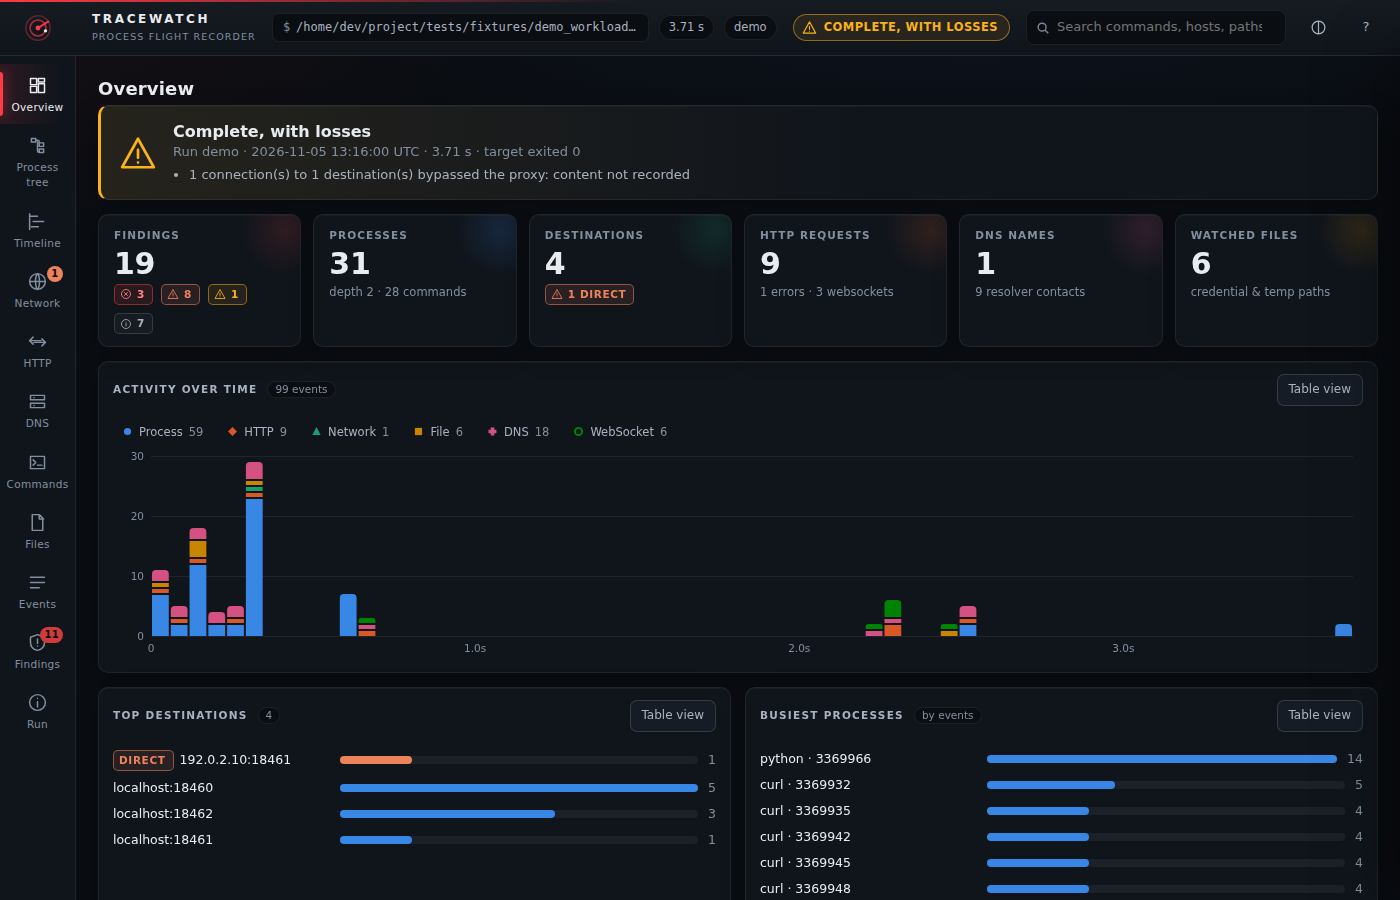
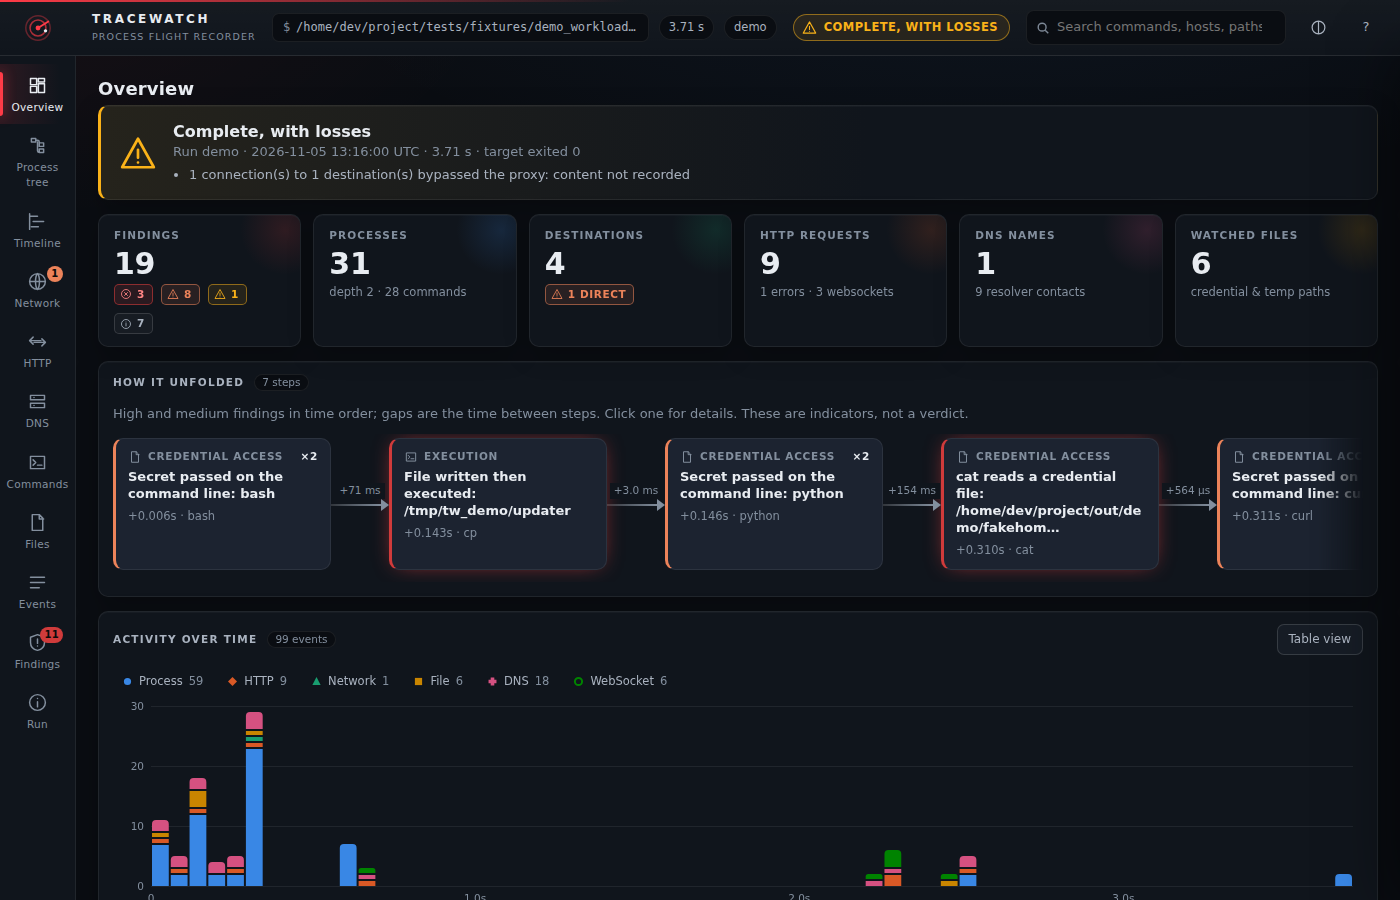
Overview: 'How it unfolded' chain of notable steps; sanitized screenshots of the simulated run

diff --git a/src/tracewatch/report_assets/style.css b/src/tracewatch/report_assets/style.css
@@ -240,6 +240,33 @@ details > summary { list-style: none; } details > summary::-webkit-details-marke
 @media (max-width: 820px) { .toolbar { flex-wrap: nowrap; overflow-x: auto; } .toolbar .btn { flex: none; white-space: nowrap; } .toolbar .muted { white-space: nowrap; } }
 .btn:disabled { opacity: .45; cursor: not-allowed; } .btn:disabled:hover { color: var(--text-2); border-color: var(--line-2); }
 
+/* the sequence of notable events */
+.story { margin-top: 14px; }
+.story-track { list-style: none; margin: 0; padding: 4px 2px 12px; display: flex; align-items: stretch; overflow-x: auto; scroll-snap-type: x proximity; }
+.story-item { flex: none; scroll-snap-align: start; display: flex; }
+.story-node { display: flex; flex-direction: column; gap: 5px; text-align: left; width: 218px; padding: 10px 12px; border-radius: var(--radius);
+  background: var(--raised-2); border: 1px solid var(--line); border-left: 3px solid var(--sev-info); transition: transform .15s ease, border-color .15s ease; }
+.story-node:hover { transform: translateY(-2px); border-color: var(--line-2); }
+.story-node:focus-visible { outline: 2px solid var(--accent); outline-offset: 2px; }
+.story-node.st-high { border-left-color: var(--sev-high); box-shadow: 0 0 22px -8px var(--sev-high); } .story-node.st-medium { border-left-color: var(--sev-medium); }
+.story-track.more-right { -webkit-mask-image: linear-gradient(90deg, #000 calc(100% - 44px), transparent); mask-image: linear-gradient(90deg, #000 calc(100% - 44px), transparent); }
+.story-stage { display: flex; align-items: center; gap: 6px; font-size: 10.5px; font-weight: 700; letter-spacing: .07em; text-transform: uppercase; color: var(--text-3); }
+.story-stage svg { flex: none; } .story-n { margin-left: auto; color: var(--text); font-variant-numeric: tabular-nums; }
+.story-title { font-weight: 600; line-height: 1.3; overflow-wrap: anywhere; } .story-meta { font-size: 11.5px; color: var(--text-3); }
+.story-link { flex: none; width: 58px; display: flex; flex-direction: column; align-items: center; justify-content: center; position: relative; }
+.story-link::before { content: ""; position: absolute; left: 0; right: 7px; top: 50%; height: 2px; background: linear-gradient(90deg, var(--line-2), var(--text-3)); }
+.story-link::after { content: ""; position: absolute; right: 0; top: calc(50% - 5px); border: 6px solid transparent; border-left: 8px solid var(--text-3); border-right: 0; }
+.story-gap { position: relative; top: -13px; font-size: 10.5px; color: var(--text-3); background: var(--surface); padding: 0 4px; font-variant-numeric: tabular-nums; z-index: 1; }
+@media (max-width: 820px) {
+  .story-track.more-right { -webkit-mask-image: none; mask-image: none; }
+  .story-track { flex-direction: column; overflow-x: visible; align-items: stretch; } .story-item, .story-node { width: 100%; }
+  .story-link { width: auto; height: 34px; flex-direction: row; justify-content: flex-start; padding-left: 24px; }
+  .story-link::before { left: 14px; right: auto; top: 0; bottom: 0; width: 2px; height: auto; background: linear-gradient(180deg, var(--line-2), var(--text-3)); }
+  .story-link::after { right: auto; left: 8px; top: auto; bottom: -1px; border: 6px solid transparent; border-top: 8px solid var(--text-3); border-bottom: 0; }
+  .story-gap { top: 0; left: 8px; background: none; }
+}
+@media print { .story-track.more-right { -webkit-mask-image: none; mask-image: none; } .story-track { flex-wrap: wrap; overflow: visible; row-gap: 10px; } .story-node { break-inside: avoid; } }
+
 /* finding dictionary */
 .rstat { display: inline-block; font-size: 10.5px; font-weight: 700; letter-spacing: .05em; padding: 1px 7px; border-radius: 99px; border: 1px solid var(--line-2); }
 .rstat.observed { color: var(--t-good); } .rstat.synthetic { color: var(--t-warning); }

diff --git a/src/tracewatch/report_assets/js/55-story.js b/src/tracewatch/report_assets/js/55-story.js
@@ -1,0 +1,37 @@
+/* ===== the sequence of notable events: how the run unfolded, in order, as a connected chain ===== */
+const STAGE = {   // finding category -> plain-language stage + the icon that stands for it
+  execution: ['Execution', 'commands'], credential: ['Credential access', 'files'], exposure: ['Data exposure', 'http'], network: ['Network', 'network'],
+  evasion: ['Evasion', 'search'], privilege: ['Privilege', 'findings'], integrity: ['Recording', 'run'], reliability: ['Reliability', 'info'],
+};
+const STORY_SKIP = new Set(['recording-integrity', 'secrets-redacted', 'nonzero-exit', 'inline-code', 'killed-by-signal', 'detached-process']);
+const STORY_MAX = 10, STORY_GROUP_NS = 1.5e9;
+function storySteps() {
+  const base = DATA.findings.filter(f => (f.severity === 'high' || f.severity === 'medium') && !STORY_SKIP.has(f.rule) && f.events.length).sort((a, b) => a.t - b.t || a.id.localeCompare(b.id));
+  const steps = [];
+  for (const f of base) {   // consecutive findings of the same rule in quick succession read as one step ("×3"), not three
+    const last = steps[steps.length - 1];
+    if (last && last.rule === f.rule && f.t - last.tEnd <= STORY_GROUP_NS) { last.items.push(f); last.tEnd = f.t; if (SEV_RANK[f.severity] > SEV_RANK[last.severity]) last.severity = f.severity; }
+    else steps.push({ rule: f.rule, category: f.category, severity: f.severity, t: f.t, tEnd: f.t, items: [f] });
+  }
+  return steps;
+}
+const SEV_RANK = { info: 0, low: 1, medium: 2, high: 3 };
+function storyChain() {
+  const all = storySteps(); if (all.length < 2) return null;
+  const steps = all.slice(0, STORY_MAX), more = all.length - steps.length;
+  const track = h('ol', { class: 'story-track', 'aria-label': 'Notable events in time order' });
+  steps.forEach((s, i) => {
+    const [stage, ic] = STAGE[s.category] || [s.category, 'info'], f = s.items[0], p = f.procs.length ? P.get(f.procs[0]) : null;
+    if (i) track.appendChild(h('li', { class: 'story-link', 'aria-hidden': 'true' }, h('span', { class: 'story-gap' }, '+' + fmtT(Math.max(0, s.t - steps[i - 1].tEnd)))));
+    track.appendChild(h('li', { class: 'story-item' }, h('button', { type: 'button', class: 'story-node st-' + s.severity, 'data-fk': 'story:' + i,
+      title: f.title + (s.items.length > 1 ? ` (and ${s.items.length - 1} more of the same kind)` : ''), onclick: () => setState({ sel: { type: 'finding', id: f.id } }) },
+      h('span', { class: 'story-stage' }, icon(ic, 14), stage, s.items.length > 1 ? h('span', { class: 'story-n' }, '×' + s.items.length) : null),
+      h('span', { class: 'story-title' }, short(f.title, 64)),
+      h('span', { class: 'story-meta' }, fmtAt(s.t), p ? ' · ' + p.name : ''))));
+  });
+  const fade = () => track.classList.toggle('more-right', track.scrollWidth - track.clientWidth - track.scrollLeft > 4);   // a hint that the row scrolls
+  track.addEventListener('scroll', fade); new ResizeObserver(fade).observe(track); requestAnimationFrame(fade);
+  return h('section', { class: 'card story' }, h('div', { class: 'card-h' }, h('h3', null, 'How it unfolded'), h('span', { class: 'cnt' }, fmtN(all.length) + (all.length === 1 ? ' step' : ' steps')), h('span', { class: 'sp' }),
+    more ? h('button', { class: 'btn', type: 'button', onclick: () => setState({ tab: 'findings' }) }, '+' + more + ' more in Findings') : null),
+    h('div', { class: 'card-b' }, h('p', { class: 'muted', style: { margin: '0 0 10px' } }, 'High and medium findings in time order; gaps are the time between steps. Click one for details. These are indicators, not a verdict.'), track));
+}

diff --git a/src/tracewatch/report_assets/js/50-views.js b/src/tracewatch/report_assets/js/50-views.js
@@ -38,7 +38,8 @@ function overviewView() {
   const top = DATA.findings.filter(f => f.severity !== 'info').slice(0, 4);
   const fcard = h('section', { class: 'card' }, h('div', { class: 'card-h' }, h('h3', null, 'Top findings'), h('span', { class: 'cnt' }, fmtN(DATA.findings.length)), h('span', { class: 'sp' }), h('button', { class: 'btn', type: 'button', onclick: tab('findings') }, 'All findings')),
     h('div', { class: 'card-b' }, top.length ? top.map(f => h('div', { style: { cursor: 'pointer' }, onclick: () => setState({ sel: { type: 'finding', id: f.id } }) }, findingCard(f, true))) : h('div', { class: 'empty' }, 'No medium or high indicators fired.')));
-  const root = viewShell('overview', 'Overview', null, banner, kpis, h('div', { class: 'grid', style: { gridTemplateColumns: '1fr' } }, activity), h('div', { class: 'grid g2', style: { marginTop: '14px' } }, destCard, busyCard), h('div', { class: 'grid g2', style: { marginTop: '14px' } }, fcard, cov));
+  const story = storyChain();
+  const root = viewShell('overview', 'Overview', null, banner, kpis, story, h('div', { class: 'grid', style: { gridTemplateColumns: '1fr', marginTop: story ? '14px' : '0' } }, activity), h('div', { class: 'grid g2', style: { marginTop: '14px' } }, destCard, busyCard), h('div', { class: 'grid g2', style: { marginTop: '14px' } }, fcard, cov));
   root.onShow = () => { activity.redraw(); };
   return root;
 }

diff --git a/tests/browser/run.py b/tests/browser/run.py
@@ -649,6 +649,56 @@ def run_print(b, path):
     s.page.close()
 
 
+def run_story(b, path):
+    """The Overview's "How it unfolded" chain: ordered, clickable, keyboard-reachable, and fits every width."""
+    s = Session(b, path)
+    p = s.page
+    n = p.locator(".story-node").count()
+    check(f"the Overview shows a chain of notable steps ({n})", n >= 3)
+    ts = p.evaluate(
+        "[...document.querySelectorAll('.story-node .story-meta')].map(e => parseFloat(e.textContent.replace('+', '')))"
+    )
+    check("the steps are in time order", ts == sorted(ts))
+    check(
+        "a high-severity step is visibly stronger than a medium one (different border colour)",
+        p.evaluate(
+            "(() => { const a = document.querySelector('.story-node.st-high'), b = document.querySelector('.story-node.st-medium'); return !a || !b || getComputedStyle(a).borderLeftColor !== getComputedStyle(b).borderLeftColor; })()"
+        ),
+    )
+    check(
+        "connectors carry the time gap between steps as text",
+        p.locator(".story-gap").count() == n - 1
+        and "ms" in p.locator(".story-gap").first.inner_text()
+        or "s" in p.locator(".story-gap").first.inner_text(),
+    )
+    first = p.locator(".story-node").first
+    title = first.get_attribute("title")
+    first.focus()
+    p.keyboard.press("Enter")
+    p.wait_for_timeout(500)
+    check(
+        "Enter on a step opens that finding's details",
+        p.locator("#drawer.open").count() == 1 and title.split(" (")[0][:20] in p.locator("#drawer").inner_text(),
+    )
+    p.keyboard.press("Escape")
+    check(
+        "the step stays focusable after the drawer closes",
+        p.evaluate("document.activeElement.classList.contains('story-node')"),
+    )
+    check("no console errors", not s.errors, "; ".join(s.errors[:2]))
+    s.page.close()
+    for w, h, label in ((390, 844, "phone"), (820, 1000, "tablet")):
+        s = Session(b, path, width=w, height=h)
+        p = s.page
+        over = p.evaluate("document.documentElement.scrollWidth - innerWidth")
+        direction = p.evaluate("getComputedStyle(document.querySelector('.story-track')).flexDirection")
+        check(
+            f"[{label}] the chain causes no page overflow and is {'vertical' if w <= 820 else 'horizontal'} ({direction})",
+            over <= 1 and direction == ("column" if w <= 820 else "row"),
+        )
+        s.page.close()
+
+
 def _chain(model, pid):
     by = {p["id"]: p for p in model["processes"]}
     out, cur = [], by.get(pid)
@@ -748,6 +798,7 @@ def main(demo_dir):
             run_keyboard(b, OUT / "demo.html")
             run_responsive(b, OUT / "demo.html")
             run_print(b, OUT / "demo.html")
+            run_story(b, OUT / "demo.html")
         run_edges(b)
         run_hostile(b)
         run_big(b)

diff --git a/tests/browser/screenshots.py b/tests/browser/screenshots.py
@@ -1,5 +1,5 @@
 """README screenshots from a sanitized copy of a recording.
-usage: screenshots.py RUN_DIR OUT_DIR       (e.g. out/demo/runs/demo docs/screenshots)
+usage: screenshots.py RUN_DIR OUT_DIR [demo|sim]   (e.g. out/demo/runs/demo docs/screenshots)
 
 The page is rendered from a model whose paths, user/host names and IP addresses have been replaced, and the script
 refuses to take a single screenshot if any identifying literal of THIS machine is still present in that page."""
@@ -26,7 +26,14 @@ SHOTS = [  # name, colour scheme, key to press, viewport, after-hook
 ]
 
 
-def main(run_dir: str, out_dir: str) -> int:
+SIM_SHOTS = [  # the simulated-intruder run: where the chain, the findings drawer and the rule reference show up
+    ("sim-overview-dark", "dark", "1", (1400, 900), None),
+    ("sim-finding-detail-dark", "dark", "0", (1400, 900), "finding"),
+    ("sim-rule-reference-light", "light", "0", (1400, 900), "reference"),
+]
+
+
+def main(run_dir: str, out_dir: str, profile: str = "demo") -> int:
     ident = identity()
     model = sanitize(build(Path(run_dir)), ident)
     html = render(model)
@@ -40,12 +47,19 @@ def main(run_dir: str, out_dir: str) -> int:
         page_file = Path(td) / "report.html"
         page_file.write_text(html)
         b = pw.chromium.launch()
-        for name, scheme, key, (w, h), hook in SHOTS:
+        for name, scheme, key, (w, h), hook in SIM_SHOTS if profile == "sim" else SHOTS:
             pg = b.new_page(viewport={"width": w, "height": h}, color_scheme=scheme)
             pg.goto(page_file.as_uri())
             pg.wait_for_function("window.__tw_ready === true")
             pg.keyboard.press(key)
             pg.wait_for_timeout(700)
+            if hook == "finding":
+                pg.locator(".view.on .finding", has_text="reverse shell").first.click()
+                pg.wait_for_timeout(600)
+            if hook == "reference":
+                pg.locator("details.refrules summary").click()
+                pg.locator("details.refrules").scroll_into_view_if_needed()
+                pg.wait_for_timeout(400)
             if hook == "row":
                 pg.locator(".view.on .tbl-row").nth(1).click()
                 pg.wait_for_timeout(600)
@@ -62,4 +76,4 @@ def main(run_dir: str, out_dir: str) -> int:
 
 
 if __name__ == "__main__":
-    sys.exit(main(*sys.argv[1:3]))
+    sys.exit(main(*sys.argv[1:4]))

diff --git a/README.md b/README.md
@@ -19,6 +19,7 @@ addresses were replaced before rendering (`tests/browser/screenshots.py`).
 |---|---|
 | ![Process tree](docs/screenshots/process-tree.png) | ![Request details](docs/screenshots/http-detail.png) |
 | ![Findings, light theme](docs/screenshots/findings-light.png) | ![Overview, light theme](docs/screenshots/overview-light.png) |
+| ![A simulated intruder: the chain of notable steps](docs/screenshots/sim-overview-dark.png) | ![A finding with its rule definition](docs/screenshots/sim-finding-detail-dark.png) |
 
 ## What it does
 
